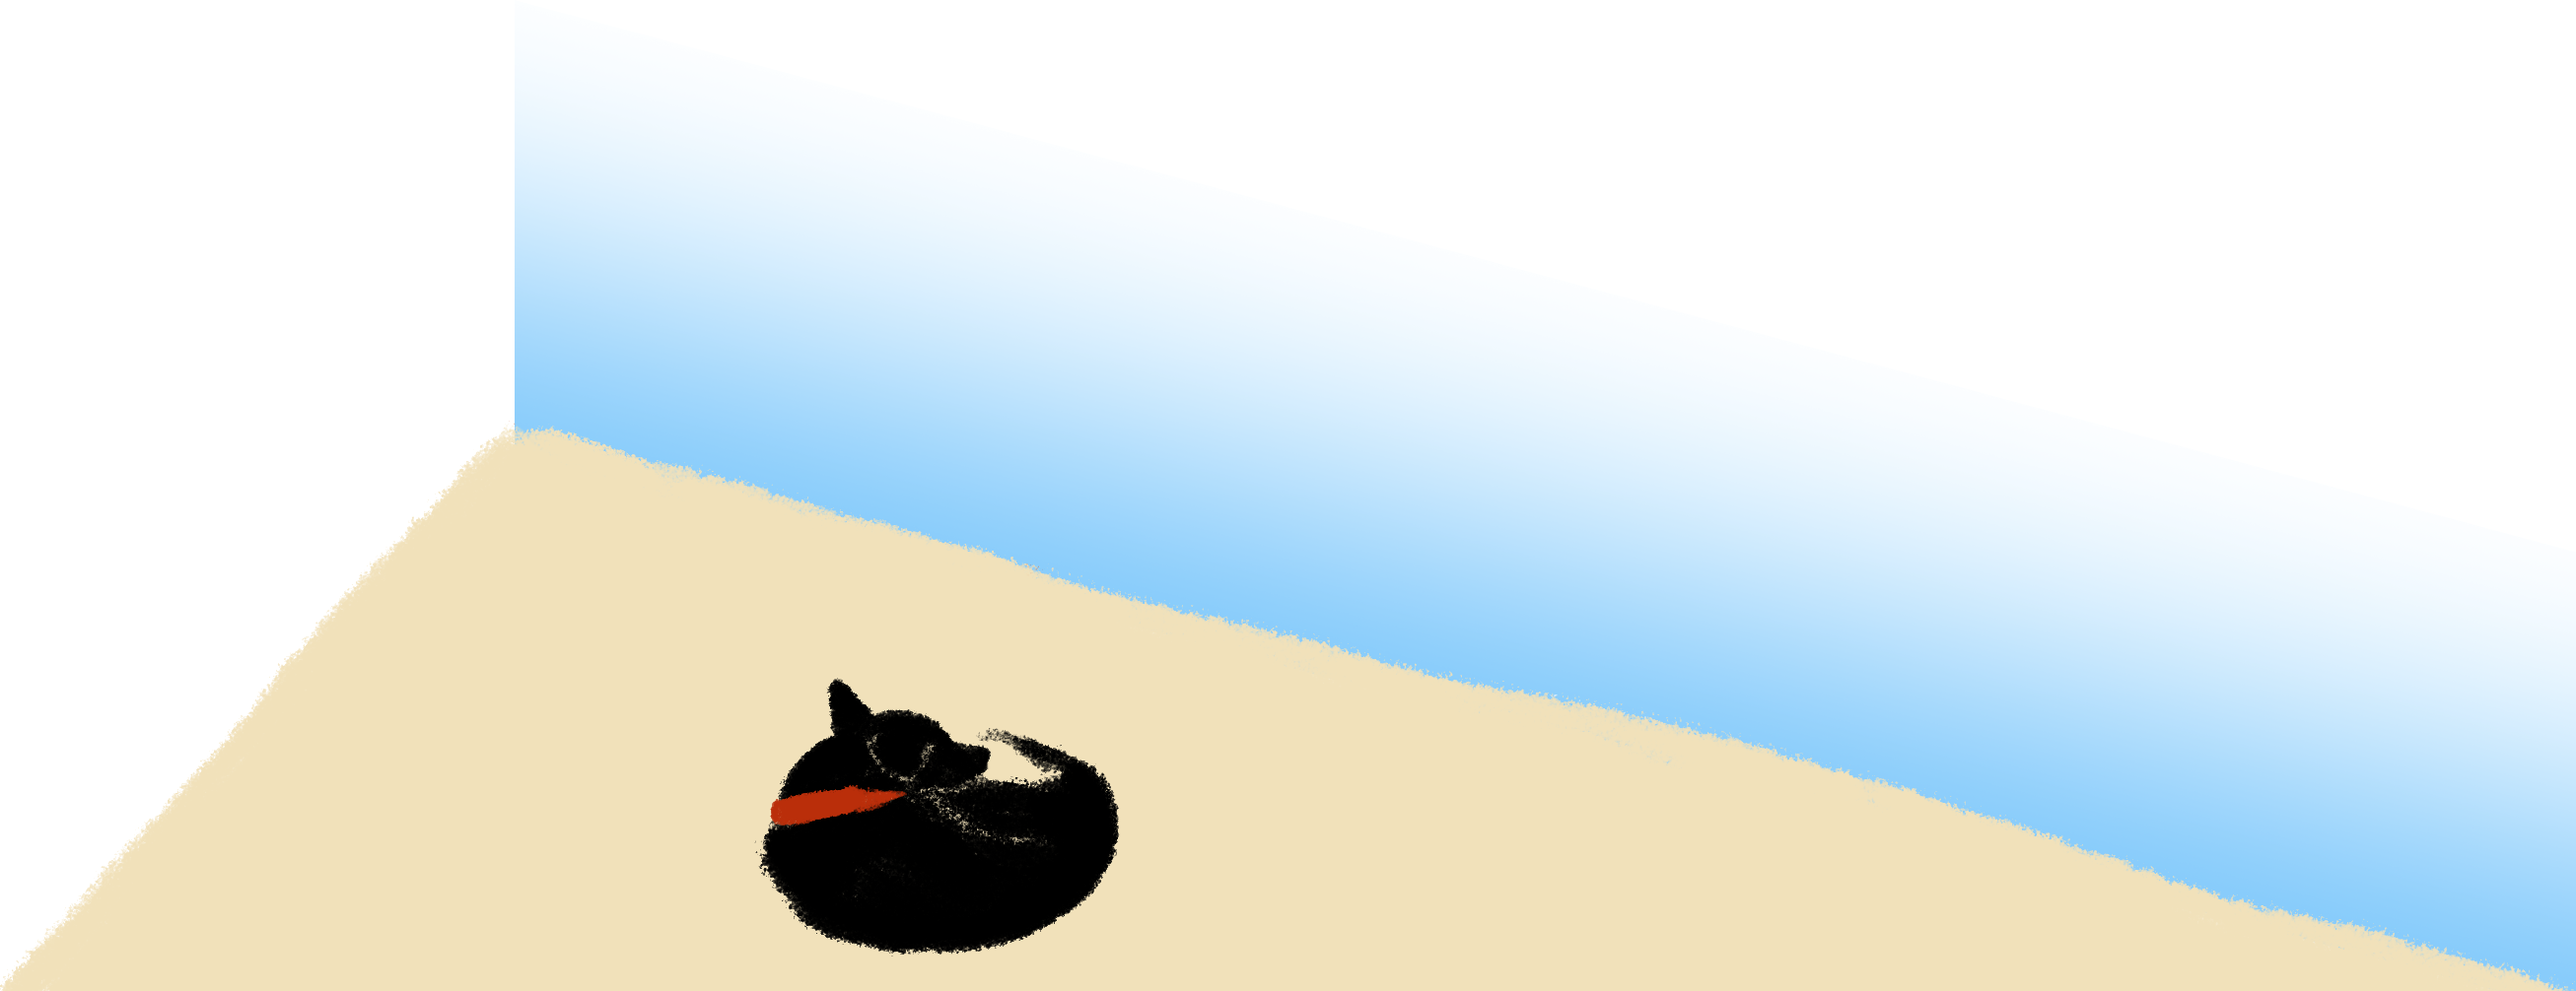
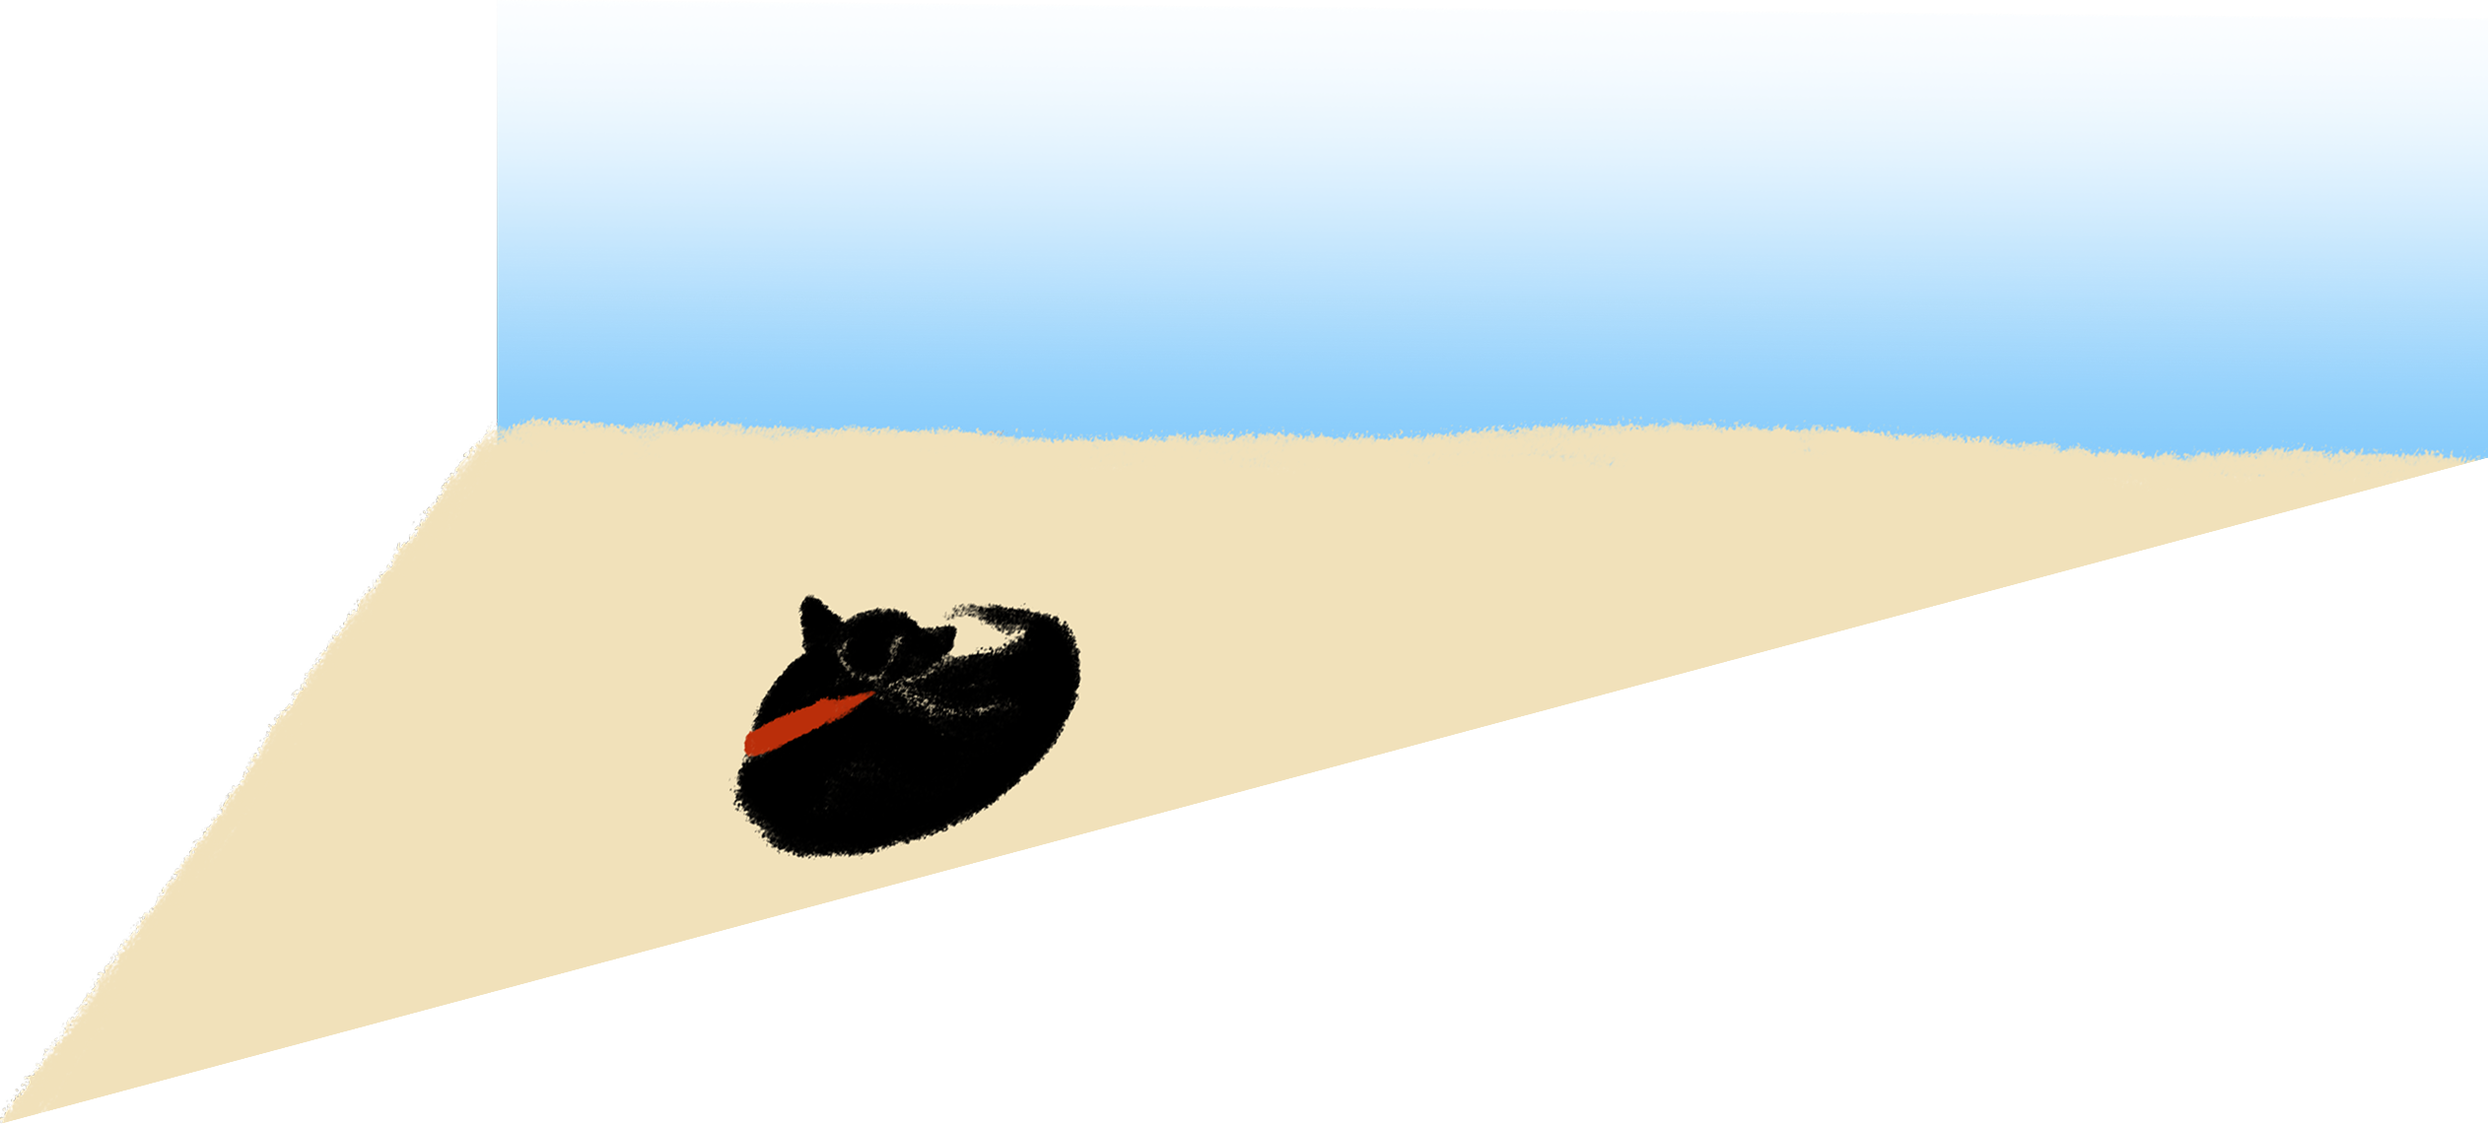
floor fixes

diff --git a/Portfolio Website/portfolio/contact.html b/Portfolio Website/portfolio/contact.html
@@ -19,7 +19,7 @@
     </div>
     <a href="index.html" id="btn">home</a>
 
-    <img src="image/contact_fore 1.png" id="floor" alt="room foreground" />
+    <img src="image/contact_fore.png" id="floor" alt="room foreground" />
     <a
       href="https://git.arts.ac.uk/pages/23043904/webdevstudio_weekly_tasks/week_9/"
       target="_blank"

diff --git a/Portfolio Website/portfolio/about.html b/Portfolio Website/portfolio/about.html
@@ -19,7 +19,7 @@
     </div>
     <a href="index.html" id="btn">home</a>
 
-    <img src="image/about_fore.png" alt="room foreground" />
+    <img src="image/about_fore.png" id="floor" alt="room foreground" />
     <a
       href="https://git.arts.ac.uk/pages/23043904/webdevstudio_weekly_tasks/week_8/"
       target="_blank"

diff --git a/Portfolio Website/portfolio/projects.html b/Portfolio Website/portfolio/projects.html
@@ -25,7 +25,7 @@
     </div>
     <a href="index.html" id="btn">home</a>
 
-    <img src="image/projects_fore.png" alt="room foreground" />
+    <img src="image/projects_fore.png" id="floor" alt="room foreground" />
     <img src="image/plant.png" alt="plant" id="plant" />
 
     <script src="projects.js"></script>

diff --git a/Portfolio Website/portfolio/resume.html b/Portfolio Website/portfolio/resume.html
@@ -72,7 +72,7 @@
     </div>
     <a href="index.html" id="btn">home</a>
 
-    <img src="image/resume_fore.png" alt="room foreground" />
+    <img src="image/resume_fore.png" id="floor" alt="room foreground" />
 
     <script src="resume.js"></script>
   </body>

diff --git a/Portfolio Website/portfolio/resume.css b/Portfolio Website/portfolio/resume.css
@@ -18,6 +18,9 @@ img {
   left: 0;
   width: 100vw;
 }
+#floor{
+  transform: translate(0, calc(50vw * tan(15deg))) skewY(15deg);
+}
 #spacer {
   /* no cutoff above, no blur below */
   height: calc(40vw * tan(15deg));

diff --git a/Portfolio Website/portfolio/contact.css b/Portfolio Website/portfolio/contact.css
@@ -18,7 +18,7 @@ img {
   width: 100vw;
 }
 #floor{
-  transform: translate(0, 43%) skewY(15deg);
+  transform: translate(0, calc(50vw * tan(15deg))) skewY(15deg);
 }
 #caterpillar {
   width: 15vw;

diff --git a/Portfolio Website/portfolio/about.css b/Portfolio Website/portfolio/about.css
@@ -17,6 +17,9 @@ img {
   left: 0;
   width: 100vw;
 }
+#floor{
+  transform: translate(0, calc(50vw * tan(15deg))) skewY(15deg);
+}
 #books{
   width: 23vw;
   cursor: url(lib/pointer.svg), auto;

diff --git a/Portfolio Website/portfolio/projects.css b/Portfolio Website/portfolio/projects.css
@@ -17,6 +17,9 @@ img {
   left: 0;
   width: 100vw;
 }
+#floor{
+  transform: translate(0, calc(50vw * tan(15deg))) skewY(15deg);
+}
 #plant{
   width: 23vw;
 }
